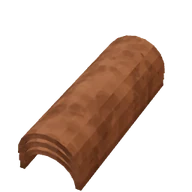
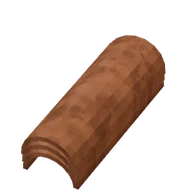
Avance: la limatesa de teja sin la cama de barro asomando (más estrecha y sin llegar a la punta), las tejas sueltas más estrechas en una punta y la captura del menú con el tejado de teja entero
Claude-Session: https://claude.ai/code/session_011XgxtkxLSVoDP6ZrHqu8ZZ

diff --git a/src/mundo/modelos.js b/src/mundo/modelos.js
@@ -771,7 +771,9 @@ function remateTejado(tipo, ctx = {}) {
       // limatesa: cobijas grandes asentadas en barro, montadas de abajo arriba, como el caballete de la cumbrera
       // las tejas del tejado, medidas en vertical sobre la diagonal (más tendida que el tejado), llegan a esta altura
       const yC = (base + T.rCanal + T.rCobija + 0.01) / Math.cos(ang);
-      const cb = en(0.5, yC - 0.06), cama = cajaR(largo, 0.1, 0.22, 0.03);
+      // (20 nov: más estrecha y sin llegar a la punta del alero: asomaba como una vara clara a los lados de las cobijas y
+      // con su canto al aire en la esquina)
+      const cb = en(0.5 + 0.06 / largo, yC - 0.07), cama = cajaR(largo - 0.12, 0.08, 0.15, 0.02);
       L.add(cama, 'barro', cb.x, cb.y, cb.z, giro, { sinSuelo: true, brillo: 0.85 });
       const rc = 0.12, lc = 0.42, pc = 0.36, caballete = mediaCana(rc, 0.02, lc, false); caballete.rotateY(Math.PI / 2);
       const n = Math.max(1, Math.ceil((largo - lc) / pc) + 1);

diff --git a/src/juego/modelos_objetos.js b/src/juego/modelos_objetos.js
@@ -764,7 +764,7 @@ function arcilla(n, id) {
 // canal y cobija del tejado de teja (src/mundo/modelos.js), algo más estrecha en una punta que en la otra, como las de
 // verdad, moldeadas sobre el muslo. En el suelo, apiladas boca abajo una dentro de otra, en una o dos pilas de cinco
 // (como mucho 10), cada una con su tono, como las recién sacadas del horno.
-const TEJA_SUELTA = { largo: 0.42, r0: 0.085, r1: 0.068, grosor: 0.014 };
+const TEJA_SUELTA = { largo: 0.42, r0: 0.088, r1: 0.062, grosor: 0.014 };
 function tejaSuelta() {
   const { largo, r0, grosor } = TEJA_SUELTA, f = new THREE.Shape(), ri = r0 - grosor;
   f.moveTo(r0, 0); f.absarc(0, 0, r0, 0, Math.PI, false); f.lineTo(-ri, 0); f.absarc(0, 0, ri, Math.PI, 0, true); f.closePath();

diff --git a/pruebas/prueba_tejas_navegador.py b/pruebas/prueba_tejas_navegador.py
@@ -137,7 +137,7 @@ def recorrido(nav, nombre, vista, movil):
         e = tj.get(n)
         comprobar(f'{nombre}: en «Tejados», {n.lower()} a la vista, con su imagen cargada', bool(e) and e[1], str(list(tj)))
         comprobar(f'{nombre}:   y cuesta {coste}s y 1 tronco', bool(e) and e[2].startswith(coste) and '1 tronco' in e[2], e[2] if e else '')
-    ev("(() => { const e = document.getElementById('piezas'); e.scrollLeft = e.scrollWidth; })()"); pg.wait_for_timeout(1200)
+    ev("(() => { const b = [...document.querySelectorAll('#piezas button.pieza')].find(b => b.querySelector('b').textContent === 'Tejado de teja'); if (b) b.scrollIntoView({ inline: 'start', block: 'nearest' }); })()"); pg.wait_for_timeout(1500)
     pg.screenshot(path=f'{SALIDA}/{nombre}_menu_tejados.png', timeout=180000)
     # ---- la casa con su tejado de teja ----
     r = ev(CASA)
